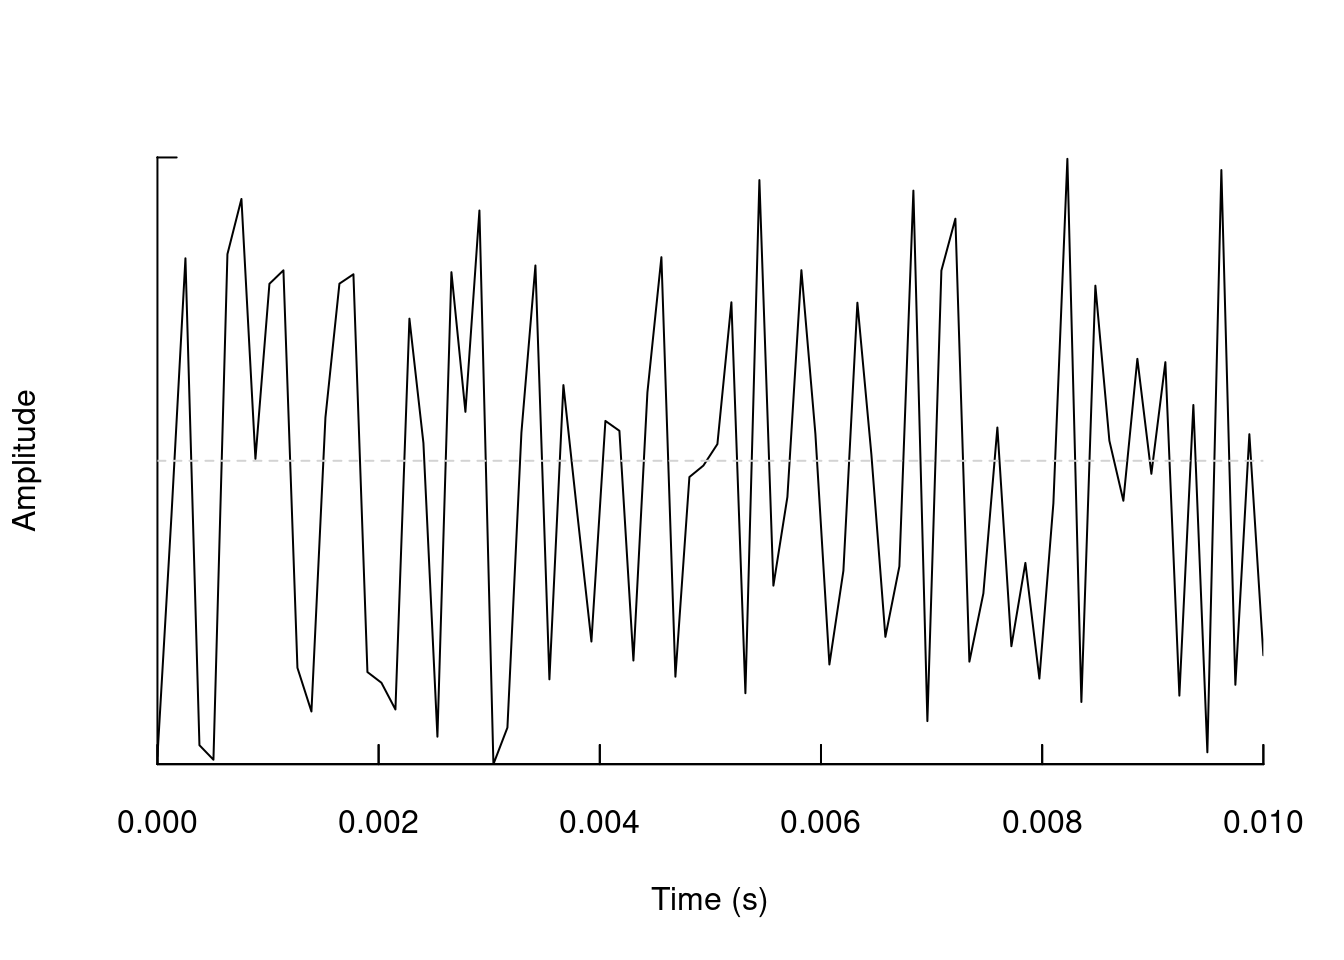
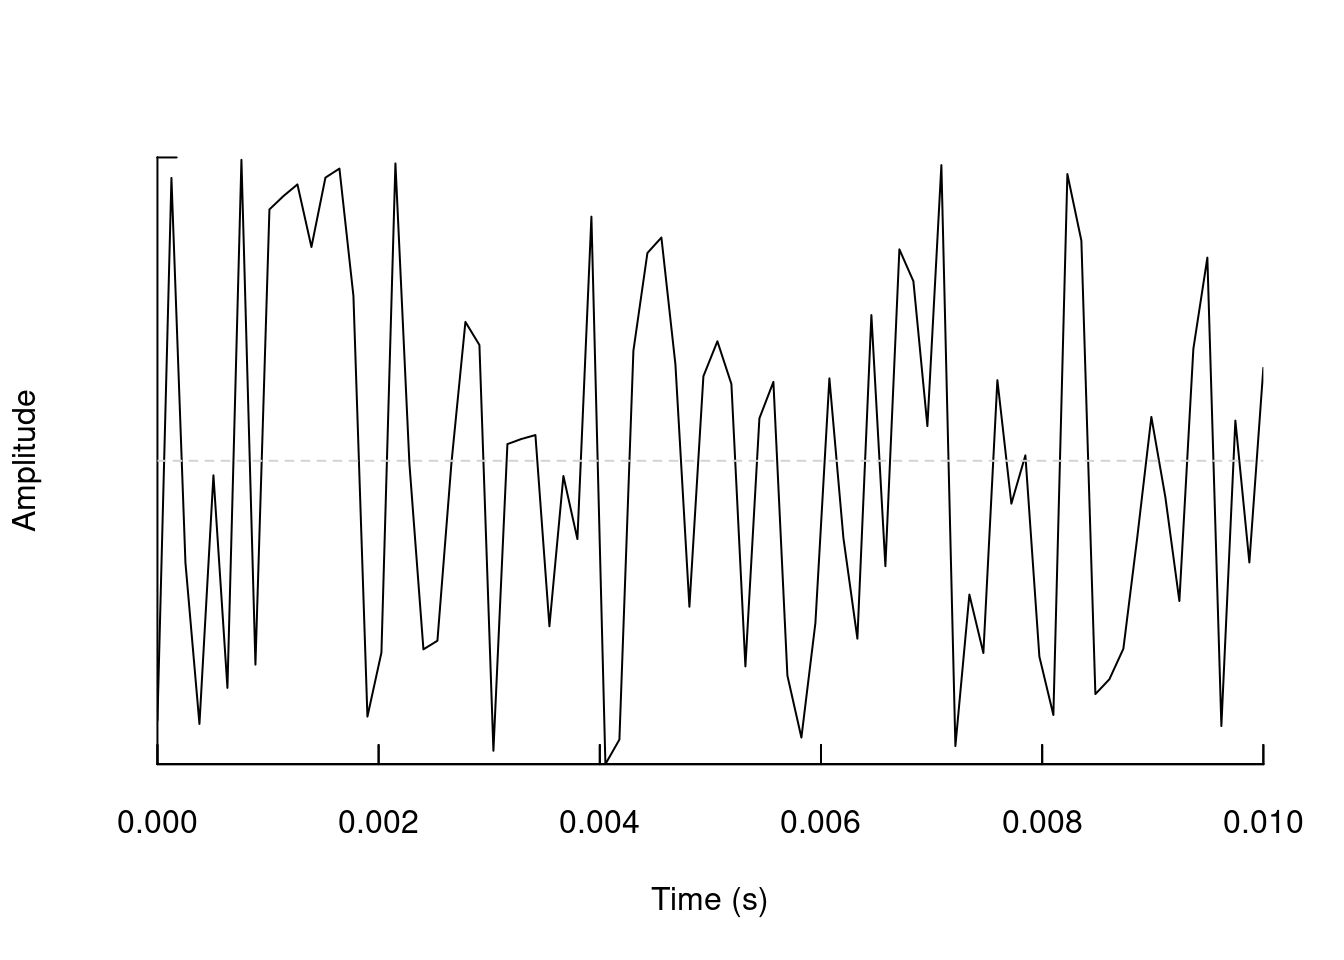
fix typo

Changed region(s): [[0.0938, 0.1875, 0.9375, 0.7812], [0.2188, 0.1875, 0.25, 0.25], [0.3438, 0.75, 0.375, 0.7812]]

diff --git a/docs/sound.html b/docs/sound.html
@@ -352,7 +352,7 @@ window.Quarto = {
 <p>&nbsp;</p>
 <section id="sampling-frequency" class="level2" data-number="0.1">
 <h2 data-number="0.1" class="anchored" data-anchor-id="sampling-frequency"><span class="header-section-number">0.1</span> Sampling frequency</h2>
-<p>Digitizing implies discretizing, which requires some sort of regular sampling. Sampling frequency refers to how many samples of the pressure level of the environment are taken per second. A 440 Hz sine wave would have around 100 samples per cycle. This plot shows 2 cycles of a 440 Hz sine wave sampled (vertical dotted lines) at 4400 Hz (10 times its frequency):</p>
+<p>Digitizing implies discretizing, which requires some sort of regular sampling. Sampling frequency refers to how many samples of the pressure level of the environment are taken per second. A 440 Hz sine wave would have around 10 samples per cycle. This plot shows 2 cycles of a 440 Hz sine wave sampled (vertical dotted lines) at 4400 Hz (10 times its frequency):</p>
 <div class="cell">
 <div class="cell-output-display">
 <div>
@@ -592,7 +592,7 @@ window.Quarto = {
 <span id="cb18-3"><a href="#cb18-3" aria-hidden="true" tabindex="-1"></a><span class="fu">str</span>(s4)</span></code><button title="Copy to Clipboard" class="code-copy-button"><i class="bi"></i></button></pre></div>
 </details>
 <div class="cell-output cell-output-stdout">
-<pre><code> Time-Series [1:4001] from 0 to 0.5: -0.973 -0.182 0.667 -0.936 -0.984 ...</code></pre>
+<pre><code> Time-Series [1:4001] from 0 to 0.5: -0.845 0.9206 -0.3318 -0.8565 -0.0473 ...</code></pre>
 </div>
 </div>
 <p>&nbsp;</p>
